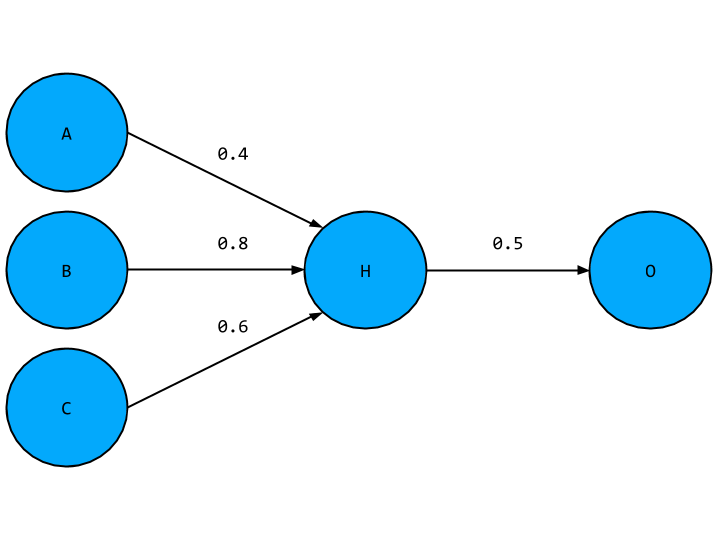
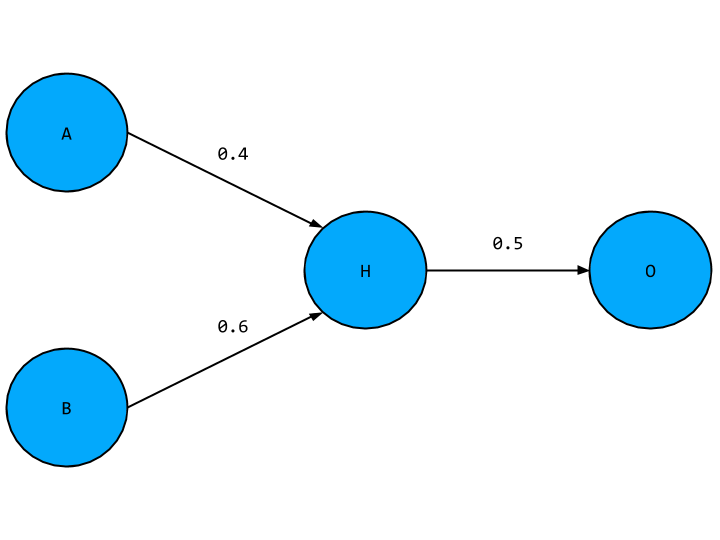
Update examples

Changed region(s): [[0.0, 0.3852, 0.4278, 0.6222], [0.0611, 0.7407, 0.1222, 0.7704]]

diff --git a/presentation/index.js b/presentation/index.js
@@ -15,6 +15,12 @@ import {
   List,
   Quote,
   Slide,
+  Table,
+  TableBody,
+  TableHeader,
+  TableHeaderItem,
+  TableItem,
+  TableRow,
   Text
 } from "spectacle";
 
@@ -88,7 +94,7 @@ export default class Presentation extends React.Component {
         </Slide>
         <Slide bgColor="primary">
           <Text margin="10px 0 0" textColor="secondary" size={1} fit bold>
-            Determine correct response to traffic lights
+            Determine correct ouput of XOR gate
           </Text>
         </Slide>
         <Slide bgColor="primary">
@@ -228,27 +234,50 @@ export default class Presentation extends React.Component {
         </Slide>
         <Slide bgColor="primary">
           <Text margin="10px 0 0" textColor="secondary" size={1} fit bold>
-            Traffic lights
+            XOR
           </Text>
         </Slide>
         <Slide bgColor="primary">
-          <Text margin="10px 0 0" textColor="secondary" size={1} fit bold>
-            Input will be arrays of length 3
-          </Text>
+          <Table>
+            <TableHeader>
+              <TableRow>
+                <TableHeaderItem>A</TableHeaderItem>
+                <TableHeaderItem>B</TableHeaderItem>
+                <TableHeaderItem>A XOR B</TableHeaderItem>
+              </TableRow>
+            </TableHeader>
+            <TableBody>
+              <TableRow>
+                <TableItem>0</TableItem>
+                <TableItem>0</TableItem>
+                <TableItem>0</TableItem>
+              </TableRow>
+              <TableRow>
+                <TableItem>0</TableItem>
+                <TableItem>1</TableItem>
+                <TableItem>1</TableItem>
+              </TableRow>
+              <TableRow>
+                <TableItem>1</TableItem>
+                <TableItem>0</TableItem>
+                <TableItem>1</TableItem>
+              </TableRow>
+              <TableRow>
+                <TableItem>1</TableItem>
+                <TableItem>1</TableItem>
+                <TableItem>0</TableItem>
+              </TableRow>
+            </TableBody>
+          </Table>
         </Slide>
         <Slide bgColor="primary">
           <Text margin="10px 0 0" textColor="secondary" size={1} fit bold>
-            e.g. [1, 0, 1] corresponds to green and red lights turning on
+            Input will be arrays of length 2
           </Text>
         </Slide>
         <Slide bgColor="primary">
           <Text margin="10px 0 0" textColor="secondary" size={1} fit bold>
             Output value will be 1 or 0
-          </Text>
-        </Slide>
-        <Slide bgColor="primary">
-          <Text margin="10px 0 0" textColor="secondary" size={1} fit bold>
-            "walk" or "don't walk'"
           </Text>
         </Slide>
         <Slide bgColor="primary">
@@ -273,7 +302,7 @@ export default class Presentation extends React.Component {
         </Slide>
         <Slide bgColor="primary">
           <Text margin="10px 0 0" textColor="secondary" size={1} fit bold>
-            Input layer will be three nodes
+            Input layer will be two nodes
           </Text>
         </Slide>
         <Slide bgColor="primary">
@@ -282,16 +311,16 @@ export default class Presentation extends React.Component {
           </Text>
         </Slide>
         <Slide bgColor="primary">
+          <Image src={images.multipleInputsToSingleOutput} />
+        </Slide>
+        <Slide bgColor="primary">
           <Text margin="10px 0 0" textColor="secondary" size={1} fit bold>
             How do we get output?
           </Text>
         </Slide>
         <Slide bgColor="primary">
-          <Image src={images.multipleInputsToSingleOutput} />
-        </Slide>
-        <Slide bgColor="primary">
           <Text margin="10px 0 0" textColor="secondary" size={1} fit bold>
-            Strength of relationship given by a "weight"
+            Weight == strength of relationship
           </Text>
         </Slide>
         <Slide bgColor="primary">
@@ -322,12 +351,12 @@ export default class Presentation extends React.Component {
         </Slide>
         <Slide bgColor="primary">
           <Text margin="10px 0 0" textColor="secondary" size={1} fit bold>
-            O = 0.4 * A + 0.8 * B + 0.6 * C
+            O = 0.4 * A + 0.6 * B
           </Text>
         </Slide>
         <Slide bgColor="primary">
           <Text margin="10px 0 0" textColor="secondary" size={1} fit bold>
-            O = 0.4 * A + 0.8 * B + 0.6 * C <br/>
+            O = 0.4 * A + 0.6 * B<br/>
             Important: This is linear
           </Text>
         </Slide>
@@ -349,6 +378,11 @@ export default class Presentation extends React.Component {
         <Slide bgColor="primary">
           <Text margin="10px 0 0" textColor="secondary" size={1} fit bold>
             All examples will be single input node to single ouput node
+          </Text>
+        </Slide>
+        <Slide bgColor="primary">
+          <Text margin="10px 0 0" textColor="secondary" size={1} fit bold>
+            Replace "multiplication" with "dot product"
           </Text>
         </Slide>
         <Slide bgColor="primary">
@@ -376,6 +410,21 @@ export default class Presentation extends React.Component {
             Mean 0, standard deviation 1
           </Text>
         </Slide>
+        <Slide bgColor="primary">
+          <Text margin="10px 0 0" textColor="secondary" size={1} fit bold>
+            Also choose weights between -1 and +1
+          </Text>
+        </Slide>
+        <Slide bgColor="primary">
+          <Text margin="10px 0 0" textColor="secondary" size={1} fit bold>
+            Mostly just to make things simple
+          </Text>
+        </Slide>
+        <Slide bgColor="primary">
+          <Text margin="10px 0 0" textColor="secondary" size={1} fit bold>
+            Everything comes back to how quickly network learns
+          </Text>
+        </Slide>
         <Slide bgColor="quartenary" notes="">
           <CodePane
             lang="js"
@@ -396,6 +445,59 @@ export default class Presentation extends React.Component {
         <Slide bgColor="primary">
           <Text margin="10px 0 0" textColor="secondary" size={1} fit bold>
             Want to find new correlations between input nodes
+          </Text>
+        </Slide>
+        <Slide bgColor="primary">
+          <Text margin="10px 0 0" textColor="secondary" size={1} fit bold>
+            Why?
+          </Text>
+        </Slide>
+        <Slide bgColor="primary">
+          <Text margin="10px 0 0" textColor="secondary" size={1} fit bold>
+            AND gate
+          </Text>
+        </Slide>
+        <Slide bgColor="primary">
+          <Table>
+            <TableHeader>
+              <TableRow>
+                <TableHeaderItem>A</TableHeaderItem>
+                <TableHeaderItem>B</TableHeaderItem>
+                <TableHeaderItem>A AND B</TableHeaderItem>
+              </TableRow>
+            </TableHeader>
+            <TableBody>
+              <TableRow>
+                <TableItem>0</TableItem>
+                <TableItem>0</TableItem>
+                <TableItem>0</TableItem>
+              </TableRow>
+              <TableRow>
+                <TableItem>0</TableItem>
+                <TableItem>1</TableItem>
+                <TableItem>0</TableItem>
+              </TableRow>
+              <TableRow>
+                <TableItem>1</TableItem>
+                <TableItem>0</TableItem>
+                <TableItem>0</TableItem>
+              </TableRow>
+              <TableRow>
+                <TableItem>1</TableItem>
+                <TableItem>1</TableItem>
+                <TableItem>1</TableItem>
+              </TableRow>
+            </TableBody>
+          </Table>
+        </Slide>
+        <Slide bgColor="primary">
+          <Text margin="10px 0 0" textColor="secondary" size={1} fit bold>
+            This can be solved with a linear neural network
+          </Text>
+        </Slide>
+        <Slide bgColor="primary">
+          <Text margin="10px 0 0" textColor="secondary" size={1} fit bold>
+            Back to XOR
           </Text>
         </Slide>
         <Slide bgColor="primary">
@@ -430,7 +532,7 @@ export default class Presentation extends React.Component {
         </Slide>
         <Slide bgColor="primary">
           <Text margin="10px 0 0" textColor="secondary" size={1} fit bold>
-            Final network will have hidden layer of 4 nodes
+            Final network will have hidden layer of 3 nodes
           </Text>
         </Slide>
         <Slide bgColor="primary">
@@ -449,7 +551,7 @@ export default class Presentation extends React.Component {
         </Slide>
         <Slide bgColor="primary">
           <Text margin="10px 0 0" textColor="secondary" size={1} fit bold>
-            H = 0.4 * A + 0.8 * B + 0.6 * C
+            H = 0.4 * A + 0.6 * C
           </Text>
         </Slide>
         <Slide bgColor="primary">
@@ -457,12 +559,12 @@ export default class Presentation extends React.Component {
         </Slide>
         <Slide bgColor="primary">
           <Text margin="10px 0 0" textColor="secondary" size={1} fit bold>
-            O = 0.5 * (0.4 * A + 0.8 * B + 0.6 * C)
+            O = 0.5 * (0.4 * A + 0.6 * C)
           </Text>
         </Slide>
         <Slide bgColor="primary">
           <Text margin="10px 0 0" textColor="secondary" size={1} fit bold>
-            O = 0.2 * A + 0.4 * B + 0.3 * C
+            O = 0.2 * A + 0.3 * C
           </Text>
         </Slide>
         <Slide bgColor="primary">
@@ -475,7 +577,17 @@ export default class Presentation extends React.Component {
         </Slide>
         <Slide bgColor="primary">
           <Text margin="10px 0 0" textColor="secondary" size={1} fit bold>
-            Activation function creates nonlinearities
+            Activation function introduces nonlinearities
+          </Text>
+        </Slide>
+        <Slide bgColor="primary">
+          <Text margin="10px 0 0" textColor="secondary" size={1} fit bold>
+            Determines if node is "on" or "off"
+          </Text>
+        </Slide>
+        <Slide bgColor="primary">
+          <Text margin="10px 0 0" textColor="secondary" size={1} fit bold>
+            Puts the neural in neural networks
           </Text>
         </Slide>
         <Slide bgColor="primary">
